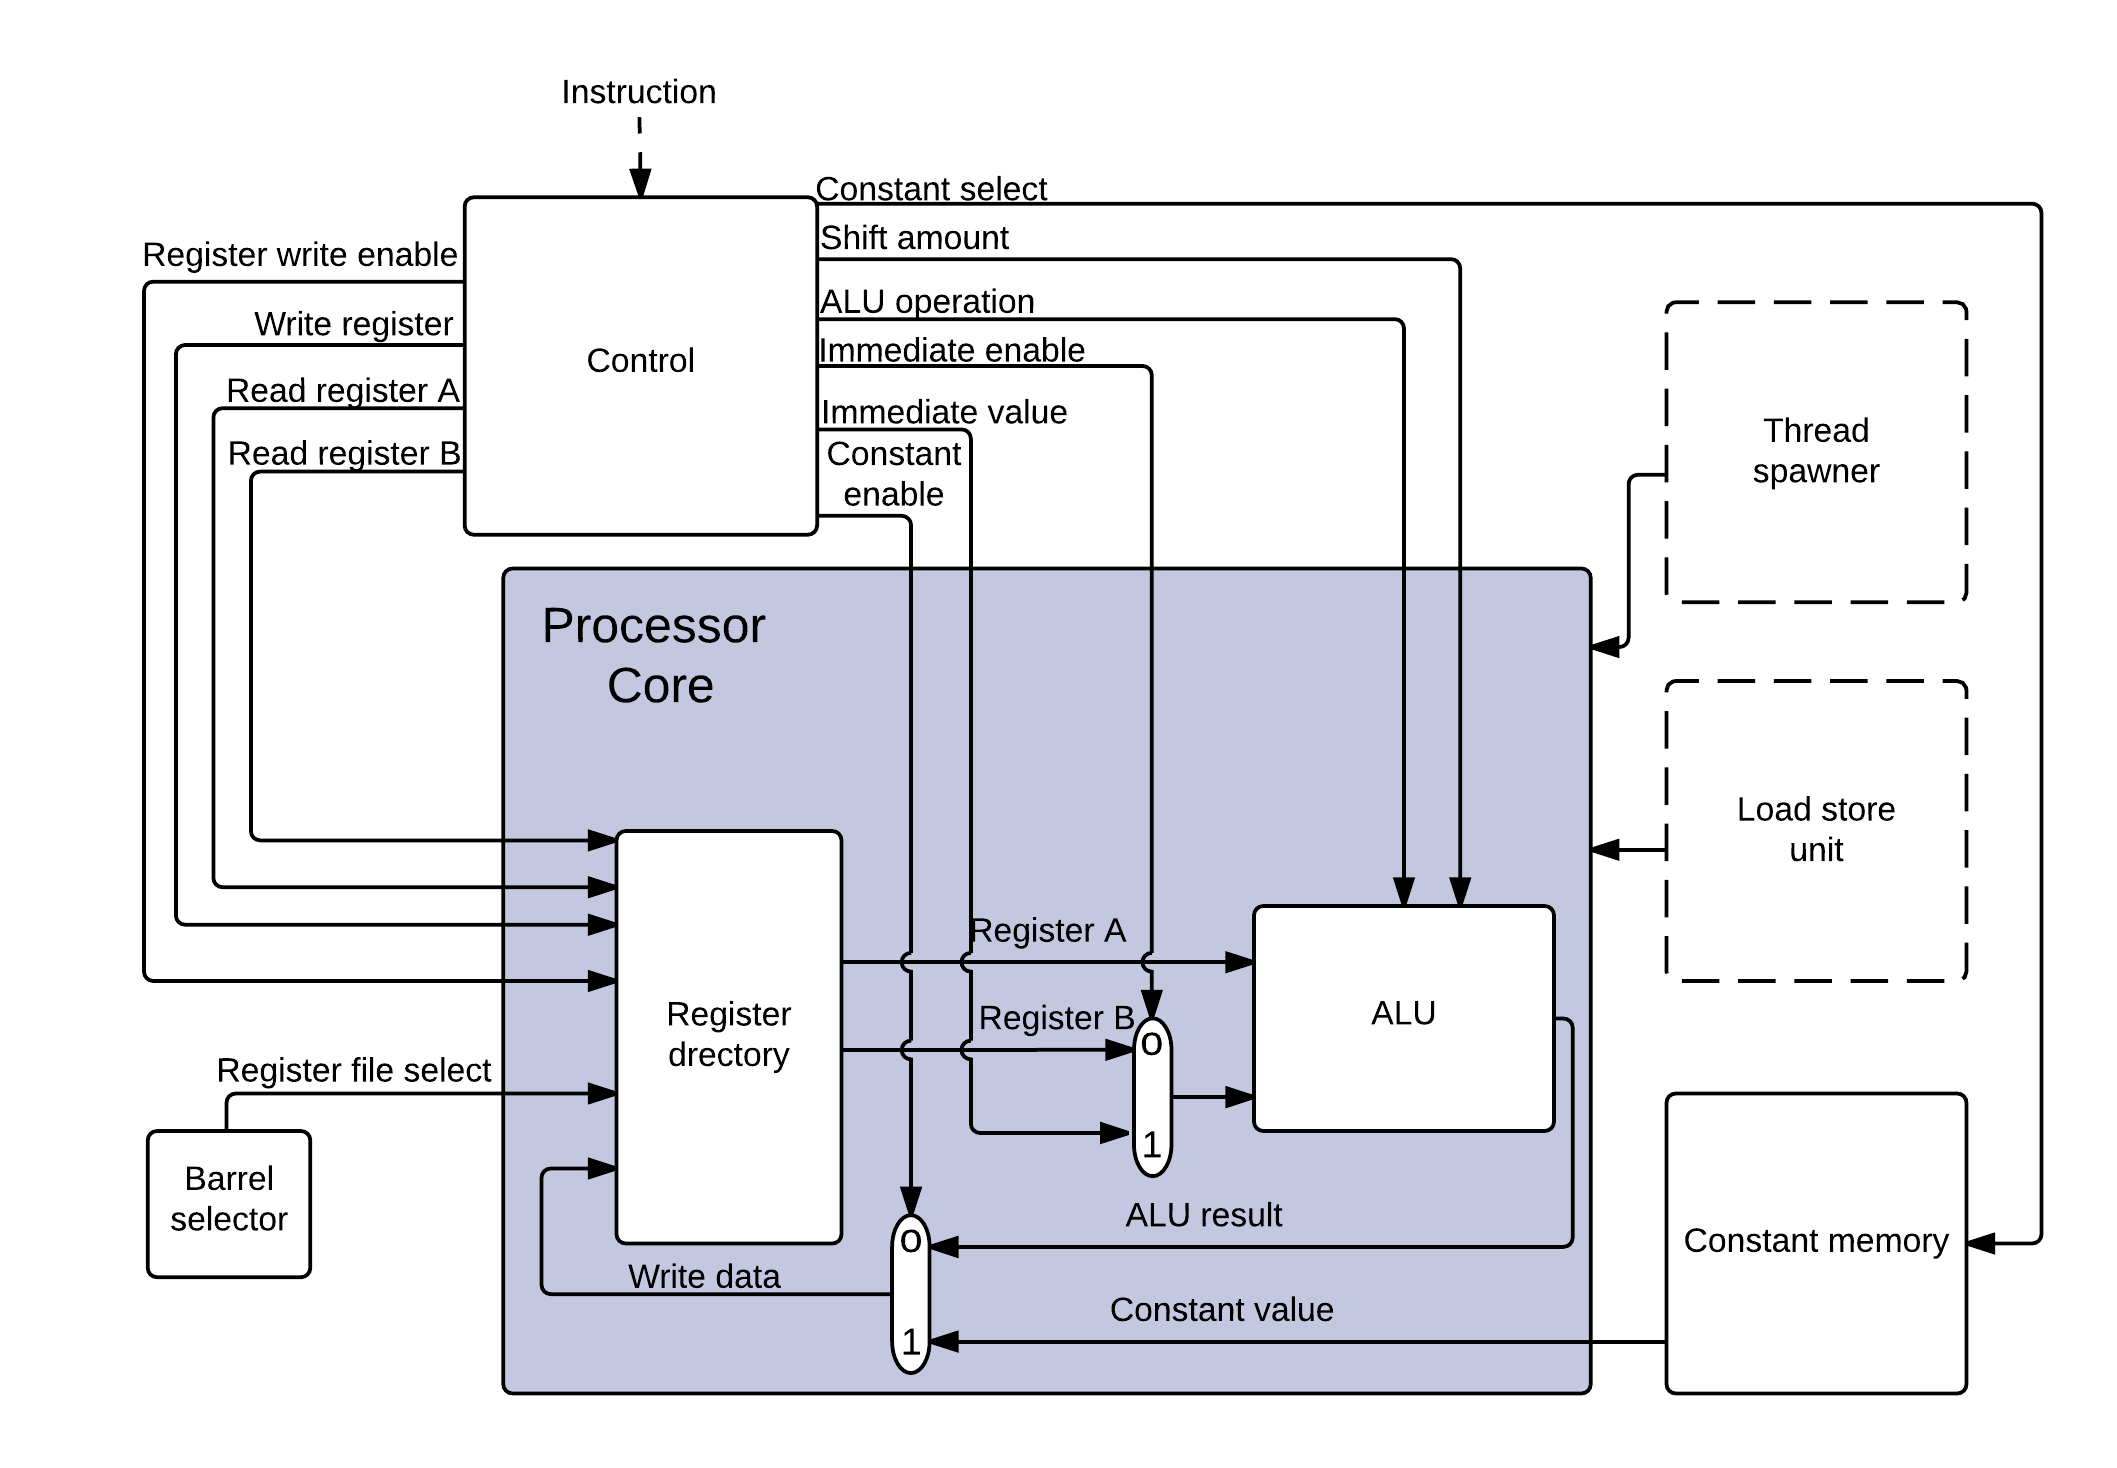
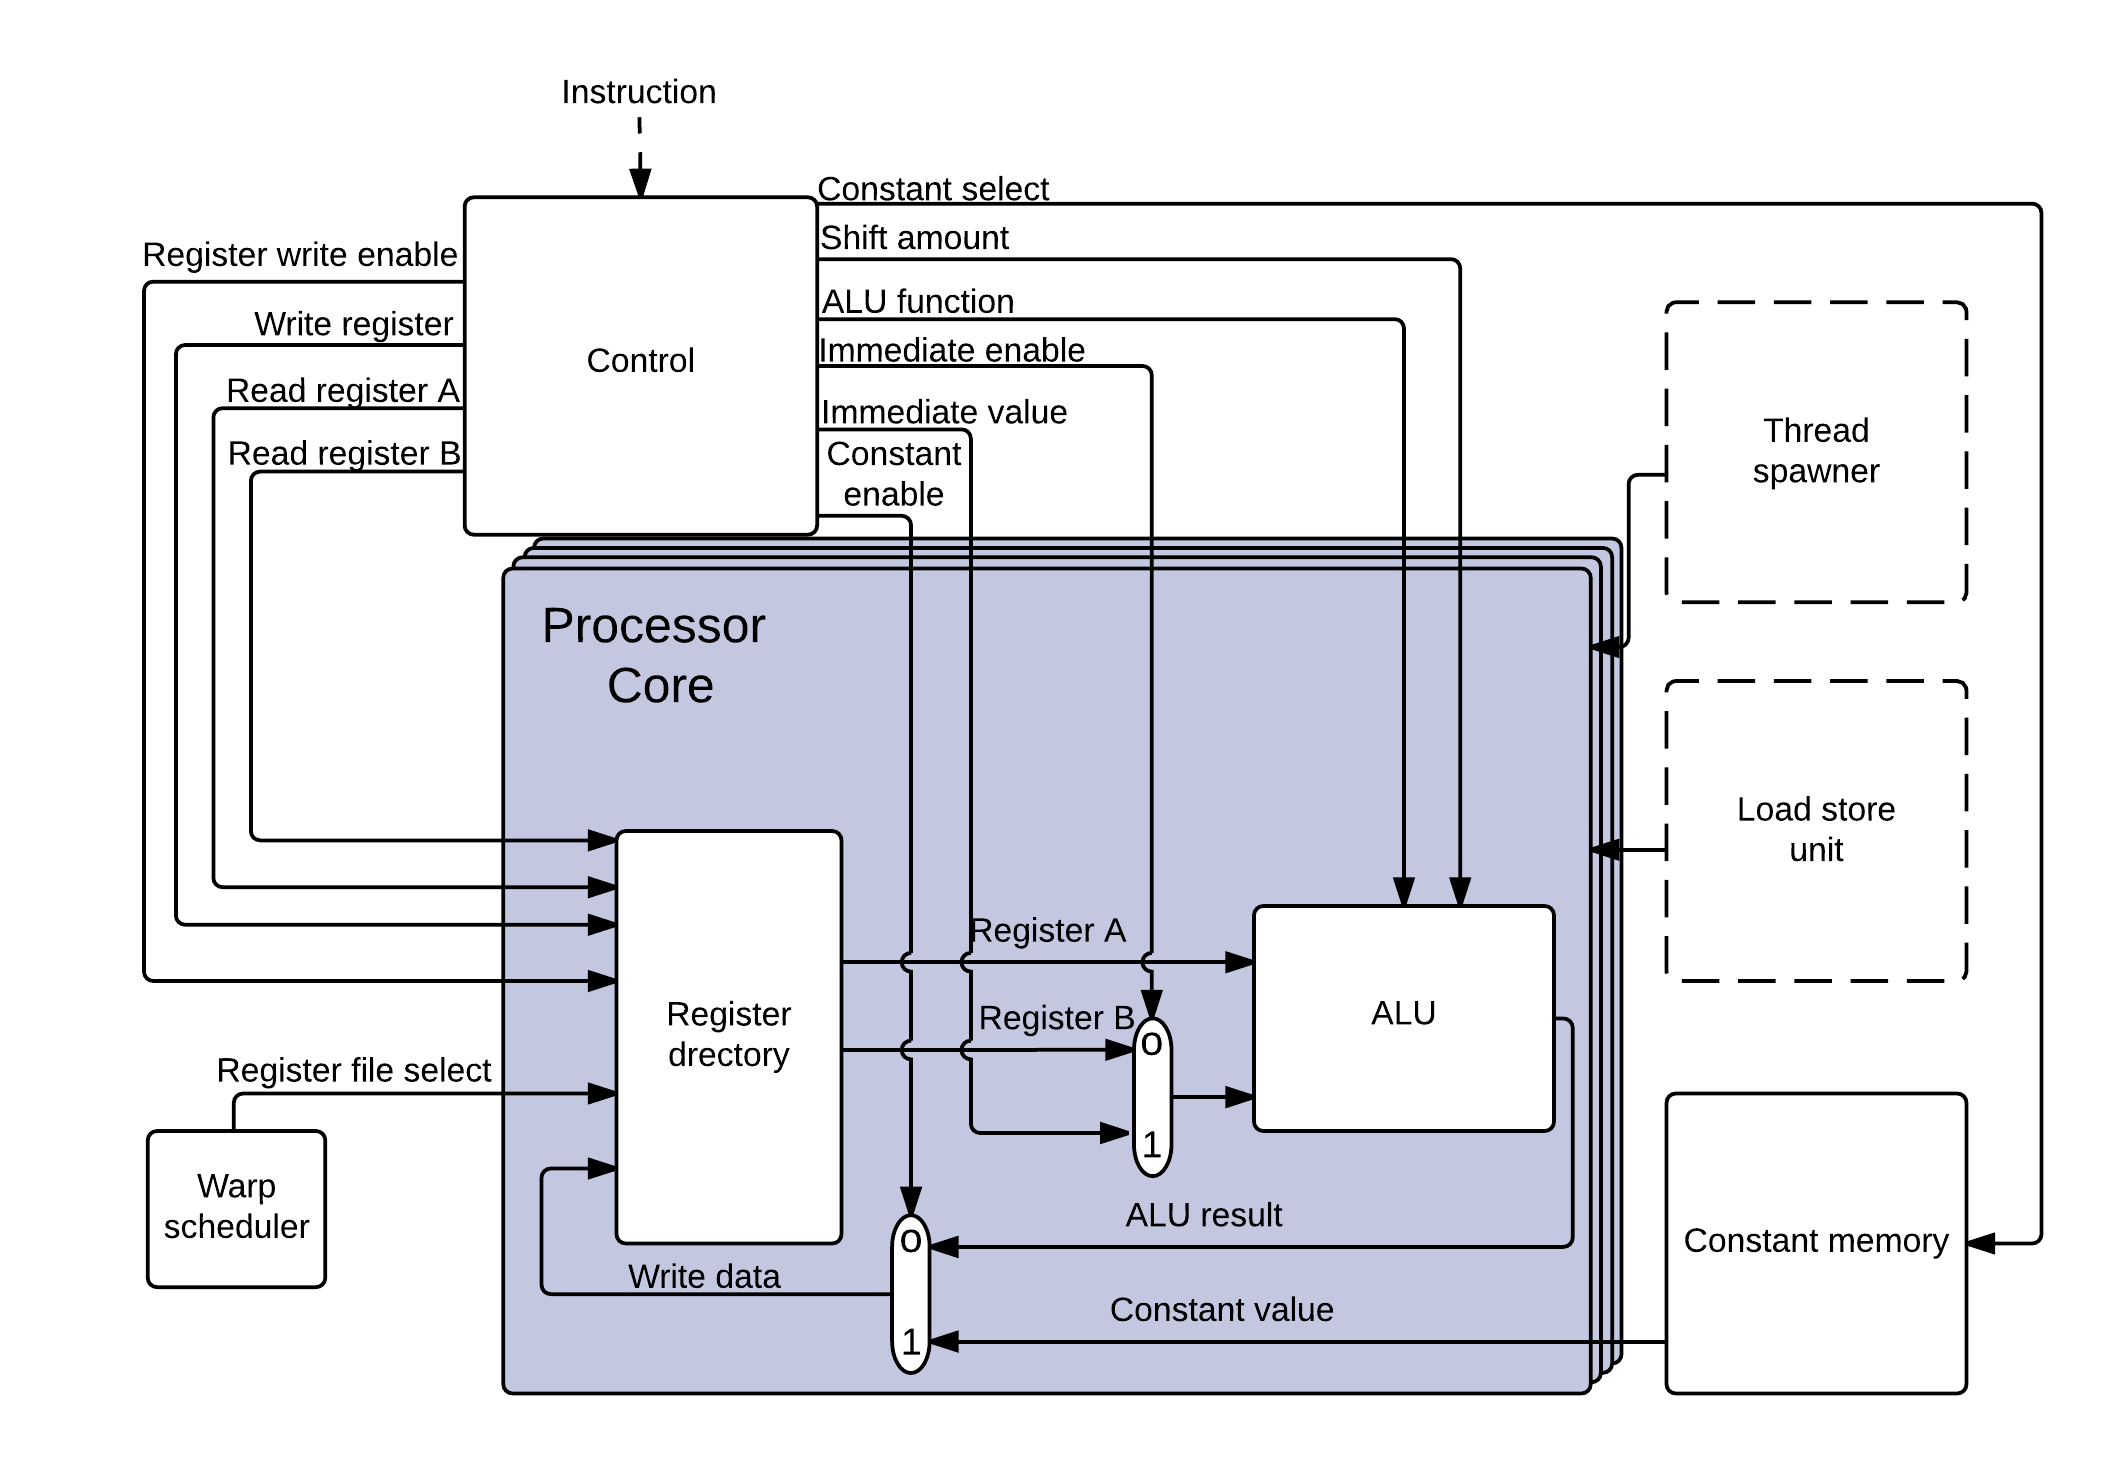
Processor core, iteration

diff --git a/report/gpu/gpu.tex b/report/gpu/gpu.tex
@@ -60,7 +60,7 @@ When the kernel completes executing, the thread spawner asserts the kernel done 
 
 \section{Running a Kernel}
 Once the thread spawner has been initiated by the communication unit, the kernel runs to completion without intervention by the CPU. 
-At the beginning of a kernel run, the thread spawner assigns threadIDs to each warp in the barrel.
+When a kernel run starts, the thread spawner assigns thread IDs to each warp in the barrel.
 After the initial IDs have been assigned the GPU enters normal execution.
 \begin{figure}[H]
 	\centering
@@ -69,10 +69,11 @@ After the initial IDs have been assigned the GPU enters normal execution.
 	\label{fig:kernel_run_state_machine}
 \end{figure}
 A normal kernel execution can be represented by the state machine in figure \ref{fig:kernel_run_state_machine}.
-During the kernel execution stage the warps execute the same instructions in lock-step one warp at a time, until the control unit encounters a \textit{Finished} instruction.
-Upon receiving a \textit{Finished} instruction the control unit asserts the finished signal alerting the thread spawner that the warp requires new threadIDs.
+During the kernel execution stage the threads in a warp execute the same instructions, until the control unit encounters a \emph{finished} instruction.
+Upon receiving a \emph{finished} instruction the control unit asserts the finished signal alerting the thread spawner that a new warp has to be spawned.
 The thread spawner keeps track of the number of threads awaiting launch.
-When the thread spawner receives a \textit{Finished} instruction and no more threads are awaiting launch, the kernel run has completed.
+When the thread spawner receives a \emph{finished} instruction and no more warps are awaiting launch, the kernel complete signal is asserted, and the kernel run has completed.
+
 
 \section{Module Details}
 

diff --git a/report/gpu/core.tex b/report/gpu/core.tex
@@ -11,9 +11,12 @@ Each processor core contains an ALU and a register directory.
 On each clock cycle the ALU receives the selected values from the register directory.
 On the same cycle, the value is written back to the register selected by the control unit.
 
-If the current instruction is a load constant instruction, the control unit selects which constant to fetch from constant memory.
+If the current instruction is a \emph{load constant} instruction, the control unit selects which constant to fetch from constant memory.
 The constant enable signal is asserted, causing the multiplexer to select the constant value as the write back value.
 The constant memory is stored on chip, meaning it returns the constant on the same cycle as it is requested.
 
-To perform immediate instructions, the control unit asserts the immediate enable signal.
+To perform immediate instructions, the control unit asserts the \emph{immediate enable} signal.
 The immediate value is then selected by the multiplexer and used as an operand in the ALU.
+
+The architecture contains multiple processor cores like the one in figure \ref{fig:processor_core}.
+Each of the cores receive the same control signals for the instructions.
